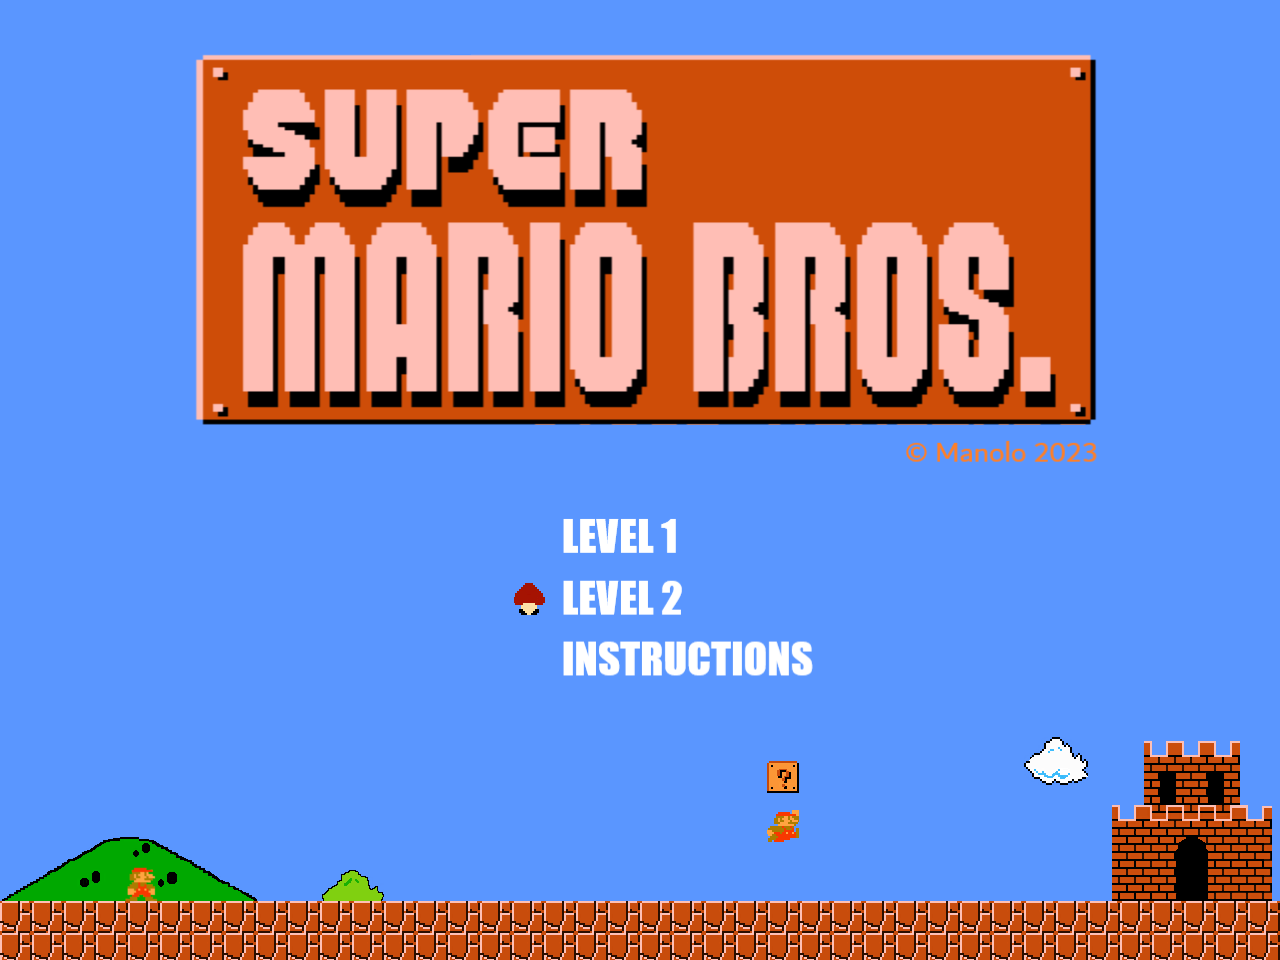
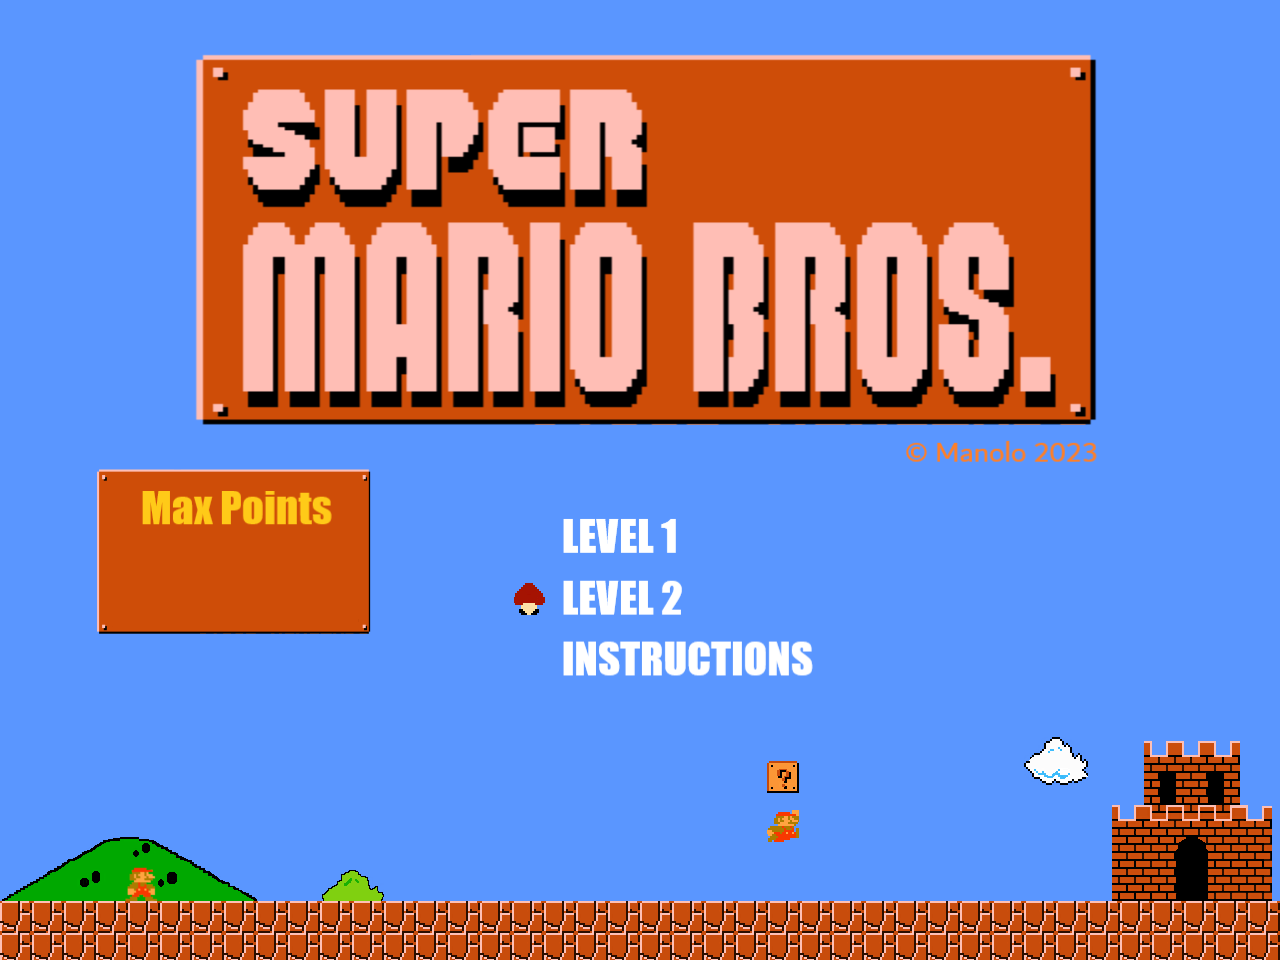
añadidos puntos de altura y de time, y max points en menu

Changed region(s): [[0.0625, 0.4688, 0.3125, 0.6875]]

diff --git a/Manolo/Menus.cpp b/Manolo/Menus.cpp
@@ -15,6 +15,11 @@ Menus::~Menus() {
     // Destructor code, if needed
 }
 
+enum PlayerAnims
+{
+    CERO, UNO, DOS, TRES, CUATRO, CINCO, SEIS, SIETE, OCHO, NUEVE
+};
+
 void Menus::init(ShaderProgram& shaderProgram) {
     opt = 0;
     insideInstrucciones = false;
@@ -23,6 +28,7 @@ void Menus::init(ShaderProgram& shaderProgram) {
     releasedUp = true;
     releasedDown = true;
     showingCredits = false;
+    maxPoints = 0;
     level1.loadFromFile("images/test1v2.png", TEXTURE_PIXEL_FORMAT_RGBA);
     sprite1 = Sprite::createSprite(glm::ivec2(640, 480), glm::vec2(1.0, 1.0), &level1, &shaderProgram);
     level2.loadFromFile("images/test2v2.png", TEXTURE_PIXEL_FORMAT_RGBA);
@@ -39,6 +45,80 @@ void Menus::init(ShaderProgram& shaderProgram) {
     sprite3->setPosition(glm::vec2(float(0), float(0)));
     spriteInstrucciones->setPosition(glm::vec2(float(0), float(0)));
     spriteCredits->setPosition(glm::vec2(float(0), float(0)));
+
+    numbers.loadFromFile("images/numbers.png", TEXTURE_PIXEL_FORMAT_RGBA);
+    /////////////////POINTS//////////////////
+    spritePointsUnidad = Sprite::createSprite(glm::ivec2(32, 32), glm::vec2(0.1, 1.0), &numbers, &shaderProgram);
+    spritePointsUnidad->setNumberAnimations(10);
+    spritePointsUnidad->setAnimationSpeed(CERO, 8);
+    spritePointsUnidad->addKeyframe(CERO, glm::vec2(0.f, 1.0f));
+    spritePointsUnidad->setAnimationSpeed(UNO, 8);
+    spritePointsUnidad->addKeyframe(UNO, glm::vec2(0.1f, 1.0f));
+    spritePointsUnidad->setAnimationSpeed(DOS, 8);
+    spritePointsUnidad->addKeyframe(DOS, glm::vec2(0.2f, 1.0f));
+    spritePointsUnidad->setAnimationSpeed(TRES, 8);
+    spritePointsUnidad->addKeyframe(TRES, glm::vec2(0.3f, 1.0f));
+    spritePointsUnidad->setAnimationSpeed(CUATRO, 8);
+    spritePointsUnidad->addKeyframe(CUATRO, glm::vec2(0.4f, 1.0f));
+    spritePointsUnidad->setAnimationSpeed(CINCO, 8);
+    spritePointsUnidad->addKeyframe(CINCO, glm::vec2(0.5f, 1.0f));
+    spritePointsUnidad->setAnimationSpeed(SEIS, 8);
+    spritePointsUnidad->addKeyframe(SEIS, glm::vec2(0.6f, 1.0f));
+    spritePointsUnidad->setAnimationSpeed(SIETE, 8);
+    spritePointsUnidad->addKeyframe(SIETE, glm::vec2(0.7f, 1.0f));
+    spritePointsUnidad->setAnimationSpeed(OCHO, 8);
+    spritePointsUnidad->addKeyframe(OCHO, glm::vec2(0.8f, 1.0f));
+    spritePointsUnidad->setAnimationSpeed(NUEVE, 8);
+    spritePointsUnidad->addKeyframe(NUEVE, glm::vec2(0.9f, 1.0f));
+    spritePointsUnidad->setPosition(glm::vec2((126), (270)));
+
+    spritePointsDecena = Sprite::createSprite(glm::ivec2(32, 32), glm::vec2(0.1, 1.0), &numbers, &shaderProgram);
+    spritePointsDecena->setNumberAnimations(10);
+    spritePointsDecena->setAnimationSpeed(CERO, 8);
+    spritePointsDecena->addKeyframe(CERO, glm::vec2(0.f, 1.0f));
+    spritePointsDecena->setAnimationSpeed(UNO, 8);
+    spritePointsDecena->addKeyframe(UNO, glm::vec2(0.1f, 1.0f));
+    spritePointsDecena->setAnimationSpeed(DOS, 8);
+    spritePointsDecena->addKeyframe(DOS, glm::vec2(0.2f, 1.0f));
+    spritePointsDecena->setAnimationSpeed(TRES, 8);
+    spritePointsDecena->addKeyframe(TRES, glm::vec2(0.3f, 1.0f));
+    spritePointsDecena->setAnimationSpeed(CUATRO, 8);
+    spritePointsDecena->addKeyframe(CUATRO, glm::vec2(0.4f, 1.0f));
+    spritePointsDecena->setAnimationSpeed(CINCO, 8);
+    spritePointsDecena->addKeyframe(CINCO, glm::vec2(0.5f, 1.0f));
+    spritePointsDecena->setAnimationSpeed(SEIS, 8);
+    spritePointsDecena->addKeyframe(SEIS, glm::vec2(0.6f, 1.0f));
+    spritePointsDecena->setAnimationSpeed(SIETE, 8);
+    spritePointsDecena->addKeyframe(SIETE, glm::vec2(0.7f, 1.0f));
+    spritePointsDecena->setAnimationSpeed(OCHO, 8);
+    spritePointsDecena->addKeyframe(OCHO, glm::vec2(0.8f, 1.0f));
+    spritePointsDecena->setAnimationSpeed(NUEVE, 8);
+    spritePointsDecena->addKeyframe(NUEVE, glm::vec2(0.9f, 1.0f));
+    spritePointsDecena->setPosition(glm::vec2((100), (270)));
+
+    spritePointsCentena = Sprite::createSprite(glm::ivec2(32, 32), glm::vec2(0.1, 1.0), &numbers, &shaderProgram);
+    spritePointsCentena->setNumberAnimations(10);
+    spritePointsCentena->setAnimationSpeed(CERO, 8);
+    spritePointsCentena->addKeyframe(CERO, glm::vec2(0.f, 1.0f));
+    spritePointsCentena->setAnimationSpeed(UNO, 8);
+    spritePointsCentena->addKeyframe(UNO, glm::vec2(0.1f, 1.0f));
+    spritePointsCentena->setAnimationSpeed(DOS, 8);
+    spritePointsCentena->addKeyframe(DOS, glm::vec2(0.2f, 1.0f));
+    spritePointsCentena->setAnimationSpeed(TRES, 8);
+    spritePointsCentena->addKeyframe(TRES, glm::vec2(0.3f, 1.0f));
+    spritePointsCentena->setAnimationSpeed(CUATRO, 8);
+    spritePointsCentena->addKeyframe(CUATRO, glm::vec2(0.4f, 1.0f));
+    spritePointsCentena->setAnimationSpeed(CINCO, 8);
+    spritePointsCentena->addKeyframe(CINCO, glm::vec2(0.5f, 1.0f));
+    spritePointsCentena->setAnimationSpeed(SEIS, 8);
+    spritePointsCentena->addKeyframe(SEIS, glm::vec2(0.6f, 1.0f));
+    spritePointsCentena->setAnimationSpeed(SIETE, 8);
+    spritePointsCentena->addKeyframe(SIETE, glm::vec2(0.7f, 1.0f));
+    spritePointsCentena->setAnimationSpeed(OCHO, 8);
+    spritePointsCentena->addKeyframe(OCHO, glm::vec2(0.8f, 1.0f));
+    spritePointsCentena->setAnimationSpeed(NUEVE, 8);
+    spritePointsCentena->addKeyframe(NUEVE, glm::vec2(0.9f, 1.0f));
+    spritePointsCentena->setPosition(glm::vec2((74), (270)));
 }
 
 void Menus::update(int deltaTime, int &chosed) {
@@ -92,6 +172,12 @@ void Menus::render() {
         if (opt == 0 && !insideInstrucciones) sprite1->render();
         else if (opt == 1 && !insideInstrucciones) sprite2->render();
         else if (opt == 2 && !insideInstrucciones) sprite3->render();
+        if (opt == 0 || opt == 1 || opt == 2) {
+            actualizarPoints();
+            spritePointsUnidad->render();
+            spritePointsDecena->render();
+            spritePointsCentena->render();
+        }
 
         if (insideInstrucciones) spriteInstrucciones->render();
     }
@@ -99,4 +185,23 @@ void Menus::render() {
 
 void Menus::showingCreditsFunc() {
     showingCredits = true;
+}
+
+void Menus::setMaxPoints(int p) {
+    maxPoints = p;
+}
+
+void Menus::asignarSpriteNumber(Sprite* s, int n) {
+    if (n < 0 || n > 9) s->changeAnimation(0);
+    else s->changeAnimation(n);
+}
+
+void Menus::actualizarPoints() {
+    int aux = maxPoints;
+    asignarSpriteNumber(spritePointsUnidad, maxPoints % 10);
+    maxPoints = maxPoints / 10;
+    asignarSpriteNumber(spritePointsDecena, maxPoints % 10);
+    maxPoints = maxPoints / 10;
+    asignarSpriteNumber(spritePointsCentena, maxPoints % 10);
+    maxPoints = aux;
 }

diff --git a/Manolo/Scene.cpp b/Manolo/Scene.cpp
@@ -73,6 +73,7 @@ void Scene::init(int lev) {
 		maxPoints = 0;
 		firstTimeInGameShowScreenDead = true;
 		timerAnimationDying = -1.0;
+		sumarPuntosTimer = false;
 		initShaders();
 		menus = new Menus();
 		menus->init(texProgram);
@@ -774,42 +775,62 @@ void Scene::update(int deltaTime)
 			init(2);
 		}
 		if (player->getPosition().x >= palo_bandera->getPosition().x) { //siguiente nivel
+			if ((!player->isChangingLevel() && level == 1) || (level == 2 && sumarPuntosTimer)) {
+				if (level == 1) {
+					player->animacionEndLevelFunc();
+					++level;
+					endedLevel = true;
 
-			if (!player->isChangingLevel() && level == 1) {
-				player->animacionEndLevelFunc();
-				++level;
-				endedLevel = true;
-
-				float altura = 401 - player->getPosition().y;
-				int pointsAltura = altura / 10;
-				points += pointsAltura;
-				actualizarPoints();
+					float altura = 401 - player->getPosition().y;
+					int pointsAltura = altura / 10;
+					points += pointsAltura;
+					actualizarPoints();
+					sumarPuntosTimer = true;
+				}
+				if (sumarPuntosTimer) {
+					--timerLevel;
+					++points;
+					actualizarPoints();
+					actualizarTimer();
+					if (timerLevel == 0) sumarPuntosTimer = false;
+				}
 			}
 			else if (!player->isChangingLevel() && level == 2 && endedLevel) { //cambiamos de nivel, se cambia el mapa
 				borrarPersonajes();
 				nextLevel();
 				firstTimeInGameShowScreenDead = true;
 			}
-			else if (!player->isChangingLevel() && level == 2) {
-				player->animacionEndLevelFunc();
-				++level;
-				endedLevel = true;
+			else if ((!player->isChangingLevel() && level == 2) || (level == 3 && sumarPuntosTimer)) {
+				if (level == 2) {
+					player->animacionEndLevelFunc();
+					++level;
+					endedLevel = true;
 
-				float altura = 401 - player->getPosition().y;
-				int pointsAltura = altura / 10;
-				points += pointsAltura;
-				actualizarPoints();
+					float altura = 401 - player->getPosition().y;
+					int pointsAltura = altura / 10;
+					points += pointsAltura;
+					actualizarPoints();
+					sumarPuntosTimer = true;
+				}
+				if (sumarPuntosTimer) {
+					--timerLevel;
+					++points;
+					actualizarPoints();
+					actualizarTimer();
+					if (timerLevel == 0) sumarPuntosTimer = false;
+				}
 			}
 			else if (!player->isChangingLevel() && level == 3 && endedLevel) { //cambiamos de nivel, se cambia el mapa
 				menus->showingCreditsFunc();
 				if (points > maxPoints) maxPoints = points;
+				menus->setMaxPoints(maxPoints);
 				points = 0;
 				level = 0;
 			}
 		}
 
-		if (!player->isInAnimacionDeadFunc() && !showScreenDeadPlayer) {
-			timerLevel = 400 - static_cast<int>(currentTime) / 1000;
+		if (player->getPosition().x < palo_bandera->getPosition().x && !player->isInAnimacionDeadFunc() && !showScreenDeadPlayer) {
+			timerLevel = 300 - static_cast<int>(currentTime) / 1000;
 			if (timerLevel == 0) {
 				player->instaKill();
 			}
@@ -838,8 +859,8 @@ void Scene::render()
 
 	if (level != 0) {
 		map->render();
-		if (level == 1 || (level == 2 && player->isChangingLevel())) spriteResumenLevel1->render();
-		else if (level == 2 || (level == 3 && player->isChangingLevel())) spriteResumenLevel2->render();
+		if (level == 1 || (level == 2 && player->isChangingLevel()) || (level == 2 && sumarPuntosTimer)) spriteResumenLevel1->render();
+		else if (level == 2 || (level == 3 && player->isChangingLevel()) || (level == 3 && sumarPuntosTimer)) spriteResumenLevel2->render();
 		for (Personaje* personaje : personajes) {
 			if (personaje != nullptr) {
 				personaje->render();

diff --git a/Manolo/Menus.h b/Manolo/Menus.h
@@ -14,12 +14,16 @@ public:
     void render();
     void update(int deltaTime, int &chosed);
     void showingCreditsFunc();
+    void setMaxPoints(int p);
 
 private:
-    Sprite* sprite1, * sprite2, * sprite3, * spriteInstrucciones, * spriteCredits;
+    Sprite* sprite1, * sprite2, * sprite3, * spriteInstrucciones, * spriteCredits, * spritePointsUnidad, * spritePointsDecena, *spritePointsCentena;
     TileMap* map;
-    Texture level1, level2, instr, instrucciones, credits;
-    int opt;
+    Texture level1, level2, instr, instrucciones, credits, numbers;
+    int opt, maxPoints;
     bool changedRecently, insideInstrucciones, releasedUp, releasedDown, showingCredits;
     float timerChangeOption;
+
+    void actualizarPoints();
+    void asignarSpriteNumber(Sprite* s, int n);
 };

diff --git a/Manolo/Scene.h b/Manolo/Scene.h
@@ -47,7 +47,7 @@ private:
 	ShaderProgram texProgram;
 	float currentTime, timerAnimationDying, timerScreenDead;
 	glm::mat4 projection;
-	bool endedLevel, showScreenDeadPlayer, firstTimeInGameShowScreenDead;
+	bool endedLevel, showScreenDeadPlayer, firstTimeInGameShowScreenDead, sumarPuntosTimer;
 	int level, timerLevel, points, maxPoints, coins, lives;
 	Menus* menus;
 	std::vector<Personaje*> personajes;
